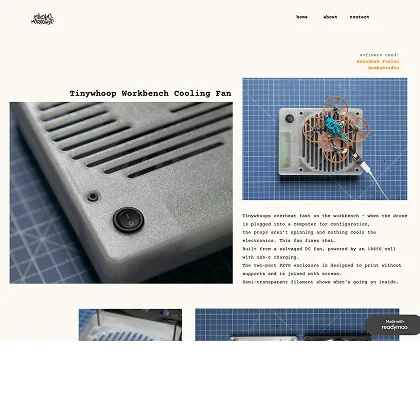
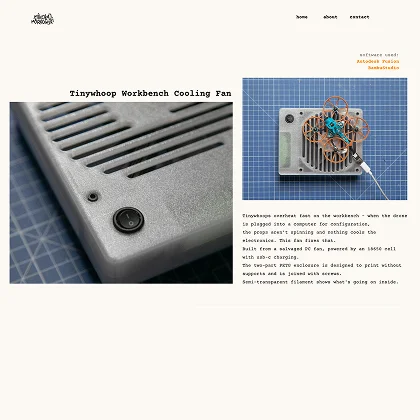
Add files via upload

Changed region(s): [[0.4643, 0.7119, 1.0, 0.8357], [0.1857, 0.7119, 0.4333, 0.8357]]

diff --git a/css/styles.css b/css/styles.css
@@ -1344,38 +1344,49 @@ main { padding-top: calc(var(--nav-h) + 2px); }
     height: 260px;
   }
 
-  /* Dual block (Strony + AI): stack do jednej kolumny */
+  /* Dual block (Strony + AI): stack do jednej kolumny, kolaż na górze */
   .services-dual {
-    grid-template-columns: 1fr;
+    display: flex;
+    flex-direction: column;
+    border-top: 1px solid var(--border);
+    border-bottom: 1px solid var(--border);
   }
   .services-dual__media {
-    padding: 0 0 48px;
+    order: -1;
+    padding: 32px 0 0;
+    width: 100%;
+  }
+  .services-dual__texts {
+    padding-bottom: 0;
   }
 
   /* Kolaż zdjęć — poziomy scroll carousel */
   .svc-collage {
-    display: flex;
+    display: flex !important;
     flex-direction: row;
     overflow-x: auto;
     scroll-snap-type: x mandatory;
     -webkit-overflow-scrolling: touch;
     scrollbar-width: none;
     gap: 10px;
-    /* Wychodzi poza padding kontenera */
     margin-left: calc(-1 * var(--pad-h));
     margin-right: calc(-1 * var(--pad-h));
     padding-left: var(--pad-h);
     padding-right: var(--pad-h);
+    padding-bottom: 4px;
+    grid-template-columns: unset;
+    grid-template-rows: unset;
   }
   .svc-collage::-webkit-scrollbar { display: none; }
 
-  /* Każde zdjęcie — jedna karta w karuzeli */
+  /* Każde zdjęcie — karta w karuzeli, aspect-ratio 4:3 */
   .svc-collage__item {
-    flex: 0 0 72vw;
+    flex: 0 0 72vw !important;
     scroll-snap-align: start;
     aspect-ratio: 4 / 3 !important;
     grid-column: unset !important;
     grid-row: unset !important;
+    height: auto;
   }
 
   /* Blog — poziomy scroll carousel */